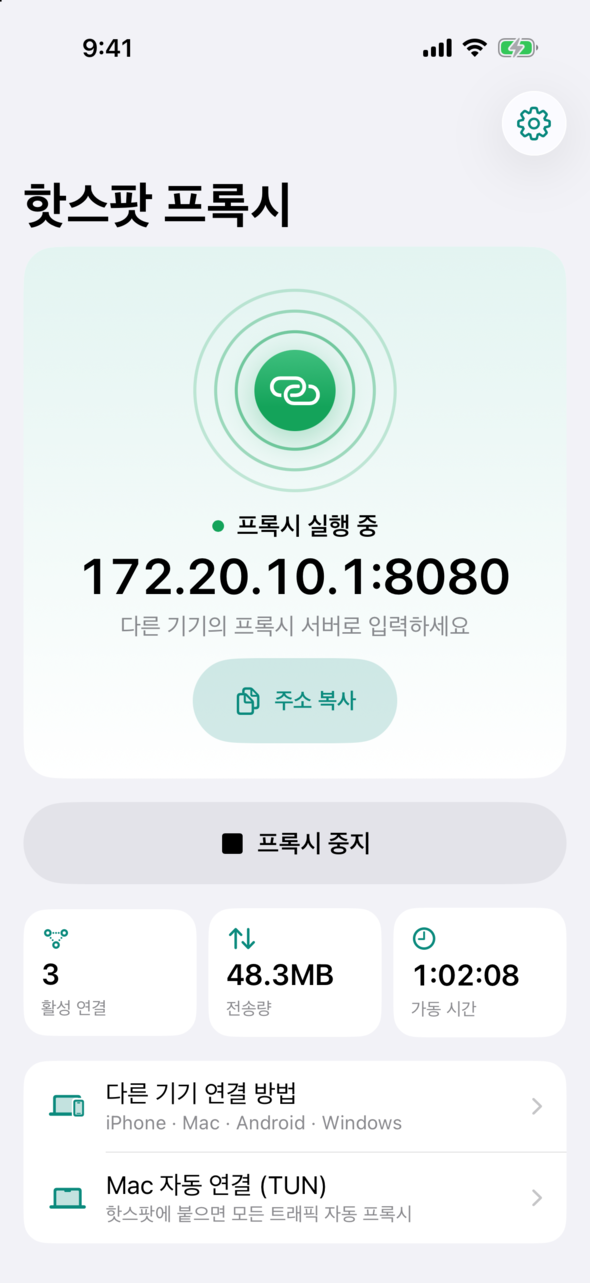
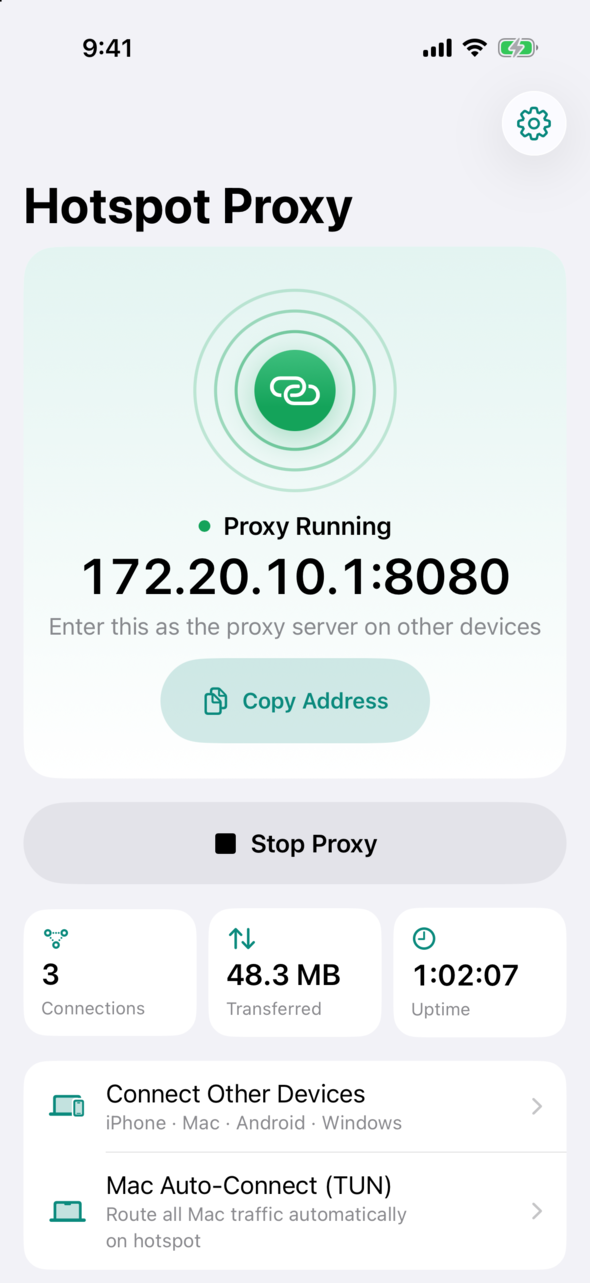
docs: English README and refreshed screenshots

diff --git a/README.md b/README.md
@@ -1,12 +1,12 @@
 <p align="center">
-  <img src="design/icon/preview.png" width="420" alt="핫스팟 프록시 앱 아이콘 (라이트 / 다크 / 틴티드)">
+  <img src="design/icon/preview.png" width="420" alt="Hotspot Proxy app icon in light, dark, and tinted variants">
 </p>
 
-<h1 align="center">핫스팟 프록시</h1>
+<h1 align="center">Hotspot Proxy</h1>
 
 <p align="center">
-  아이폰 개인용 핫스팟에 붙은 기기들이 <b>아이폰의 셀룰러 회선을 프록시로</b> 쓰게 해 주는 iOS 앱.<br>
-  HTTP · HTTPS(CONNECT) · SOCKS5(TCP + UDP ASSOCIATE)를 한 포트에서 받습니다.
+  An iOS app that lets devices on your iPhone's Personal Hotspot use <b>the iPhone's own cellular connection as a proxy</b>.<br>
+  HTTP, HTTPS (CONNECT), and SOCKS5 (TCP + UDP ASSOCIATE) on a single port.
 </p>
 
 <p align="center">
@@ -17,66 +17,70 @@
 
 ---
 
-## 왜 필요한가
+## Why
 
-일부 요금제나 망은 핫스팟 테더링 트래픽을 따로 구분해 제한합니다. 이 앱은 아이폰 안에서 프록시 서버를 띄웁니다. 핫스팟에 연결된 기기(맥, 아이패드, 노트북)가 이 프록시를 거치면, 트래픽이 아이폰 앱 자신의 트래픽으로 나가게 됩니다.
+Some carriers and plans classify tethered hotspot traffic separately and throttle or cap it. Hotspot Proxy runs a proxy server inside the iPhone. When devices on the hotspot (Mac, iPad, laptop) go through it, their traffic leaves as the iPhone app's own traffic.
 
-## 스크린샷
+## Screenshots
 
-| 메인 (실행 중) | 핫스팟 꺼짐 | 설정 | 온보딩 |
+| Main (running) | Hotspot off | Settings | Welcome |
 |---|---|---|---|
 | <img src="docs/screenshots/main-light.png" width="200"> | <img src="docs/screenshots/nohotspot-light.png" width="200"> | <img src="docs/screenshots/settings-light.png" width="200"> | <img src="docs/screenshots/onboarding-light.png" width="200"> |
 | <img src="docs/screenshots/main-dark.png" width="200"> | <img src="docs/screenshots/nohotspot-dark.png" width="200"> | <img src="docs/screenshots/settings-dark.png" width="200"> | <img src="docs/screenshots/onboarding-dark.png" width="200"> |
 
-<img src="docs/screenshots/home-icon.png" width="300" alt="홈 화면의 앱 아이콘">
+<img src="docs/screenshots/home-icon.png" width="300" alt="App icon on the Home Screen">
 
-### 잠금화면 / 홈 위젯
+### Lock Screen and Home Screen widgets
 
-<img src="docs/screenshots/widgets.png" width="420" alt="잠금화면 원형/사각/인라인 위젯과 홈 소형 위젯">
+<img src="docs/screenshots/widgets.png" width="420" alt="Lock Screen circular, rectangular, and inline widgets plus the small Home Screen widget">
 
-- **잠금화면**은 원형(연결 수와 상태), 사각형(상태, `IP:포트`, 연결·전송량), 인라인(한 줄 상태)을 지원합니다.
-- **홈 화면**은 소형 위젯(상태 칩, 접속 주소, 통계, 마지막 갱신 시각)을 지원합니다.
-- 위젯을 탭하면 앱이 열립니다. 앱은 상태가 바뀔 때만 위젯을 갱신하므로 배터리 소모가 거의 없습니다.
+- **Lock Screen** has three widgets:
+  - Circular shows the status and connection count.
+  - Rectangular shows the status, `IP:port`, connections, and data transferred.
+  - Inline shows a one-line status.
+- **Home Screen** has a small widget with a status chip, the proxy address, stats, and when it last updated.
+- Tapping a widget opens the app. The app reloads widgets only when the state changes, so they cost almost no battery.
 
-## 기능
+## Features
 
-- **상태 히어로** "signal ring"으로 현재 상태를 보여줍니다. 실행 중이면 초록, 핫스팟이 꺼지면 주황, 프록시가 꺼지면 회색, 오류면 빨강입니다.
-- **원탭 시작/중지**이며 햅틱 피드백을 줍니다.
-- **접속 주소 복사**: 다른 기기에 입력할 `172.20.10.1:8080`을 한 번에 복사합니다.
-- **실시간 통계**로 활성 연결, 전송량, 가동 시간을 보여줍니다. 화면이 보일 때만 갱신합니다.
-- **연결 안내**는 iPhone/iPad, macOS, Android, Windows별 프록시 설정 방법을 담고 있습니다.
-- **Mac 자동 TUN 안내**: `mac/` 스크립트로 시스템 전체 트래픽을 자동으로 프록시에 태웁니다.
-- **온보딩**은 핫스팟 켜기, 로컬 네트워크 권한, 백그라운드 유지 원리를 설명합니다.
-- 다크 모드, Dynamic Type(접근성 크기 포함), VoiceOver 라벨, 동작 줄이기를 지원합니다.
+- **Status hero.** A "signal ring" shows the current state: green while running, amber when the hotspot is off, grey when stopped, and red on error.
+- **One-tap start and stop**, with haptic feedback.
+- **Copy the address.** One tap copies `172.20.10.1:8080` to enter on other devices.
+- **Live stats** for active connections, data transferred, and uptime. Stats update only while the screen is visible.
+- **Connection guides** for iPhone/iPad, macOS, Android, and Windows.
+- **Mac auto-TUN guide.** The `mac/` scripts route all system traffic through the proxy automatically.
+- **Welcome flow** that covers turning on the hotspot, local network permission, and how background keep-alive works.
+- **Accessibility:** Dark Mode, Dynamic Type (including accessibility sizes), VoiceOver labels, and Reduce Motion.
 
-## 사용법
+## Usage
 
-1. 아이폰에서 **설정 › 개인용 핫스팟 › 다른 사람의 연결 허용**을 켭니다.
-2. 앱을 열고 **프록시 시작**을 누릅니다. 기본값으로 실행 시 자동 시작됩니다.
-3. 다른 기기를 핫스팟에 연결한 뒤 프록시를 수동으로 설정합니다.
-   - 서버는 `172.20.10.1`(앱 화면에 표시)이고 포트는 `8080`입니다.
-   - HTTP, HTTPS, SOCKS5 모두 같은 포트를 씁니다.
+1. On the iPhone, turn on **Settings › Personal Hotspot › Allow Others to Join**.
+2. Open the app and tap **Start Proxy**. By default it starts automatically on launch.
+3. Join the hotspot from another device and set its proxy manually:
+   - Server: `172.20.10.1` (shown in the app)
+   - Port: `8080`
+   - HTTP, HTTPS, and SOCKS5 all use the same port.
 
-### Mac: 시스템 전체 자동 프록시 (선택)
+### Mac: system-wide automatic proxy (optional)
 
-`mac/` 디렉터리에는 [sing-box](https://sing-box.sagernet.org) TUN을 이용해 **핫스팟에 붙었을 때만** 모든 트래픽을 아이폰 프록시로 보내는 launchd 구성이 들어 있습니다.
+The `mac/` directory has a launchd setup built on [sing-box](https://sing-box.sagernet.org) TUN. It sends all traffic through the iPhone proxy, but **only while the Mac is on the hotspot**.
 
 ```bash
 brew install sing-box
-sudo bash mac/install.sh        # 설치 (네트워크 변경 감지 → 자동 on/off)
-sudo bash mac/uninstall.sh      # 제거
-sudo bash mac/install-tailscale.sh   # (선택) Tailscale을 CLI 데몬으로 전환
+sudo bash mac/install.sh             # install (auto on/off on network changes)
+sudo bash mac/uninstall.sh           # remove
+sudo bash mac/install-tailscale.sh   # (optional) run Tailscale as a CLI daemon
 ```
 
-`hotspot-tun.sh`는 네트워크가 바뀔 때와 30초마다 실행됩니다. 아이폰 핫스팟(`172.20.10.x`)에 붙어 있고 `172.20.10.1:8080`이 응답하면 TUN과 DNS를 켜고, 그렇지 않으면 원래대로 되돌립니다.
+`hotspot-tun.sh` runs on every network change and every 30 seconds. When the Mac is on the iPhone hotspot (`172.20.10.x`) and `172.20.10.1:8080` responds, it turns the TUN and DNS on. Otherwise it restores the normal setup.
 
-## 백그라운드 동작과 배터리
+## Background behavior and battery
 
-iOS는 백그라운드 앱의 소켓을 오래 살려두지 않습니다. 그래서 이 앱은 **무음 오디오 루프**(8kHz, 30초 단위)로 프로세스를 유지합니다. 다른 앱 소리와 섞이며(`mixWithOthers`) 볼륨은 0입니다. UI 타이머는 화면이 보일 때만 돌고, UDP 흐름은 60초 동안 쉬면 정리됩니다.
+iOS doesn't keep a background app's sockets alive for long. To stay running, the app loops **silent audio** (8 kHz, in 30-second segments). The audio mixes with other apps (`mixWithOthers`) at zero volume. UI timers run only while the screen is visible, and idle UDP flows are cleaned up after 60 seconds.
 
-> 무음 오디오 백그라운드 모드는 App Store 심사 기준에 맞지 않을 수 있습니다. 이 앱은 개인 사이드로드나 개발자 서명 용도를 전제로 합니다.
+> The silent-audio background mode may not pass App Store review. This app is intended for personal sideloading or developer-signed builds.
 
-## 빌드
+## Build
 
 ```bash
 brew install xcodegen
@@ -84,32 +88,32 @@ xcodegen generate
 open HotspotProxy.xcodeproj
 ```
 
-- 타깃은 `HotspotProxy`(앱)와 `HotspotProxyWidget`(WidgetKit 확장)입니다.
-- 두 타깃은 App Group `group.com.indoyoon.hotspotproxy`로 상태를 공유합니다. 본인 팀으로 빌드할 때는 `project.yml`의 `DEVELOPMENT_TEAM`, 번들 ID, App Group을 바꾸세요.
-- 앱 아이콘 원본은 `design/icon/*.svg`이고, 디자인 시스템은 [`DESIGN.md`](DESIGN.md)에 있습니다.
+- The project has two targets: `HotspotProxy` (the app) and `HotspotProxyWidget` (the WidgetKit extension).
+- The targets share state through the App Group `group.com.indoyoon.hotspotproxy`. To build under your own team, change `DEVELOPMENT_TEAM`, the bundle IDs, and the App Group in `project.yml`.
+- Icon sources are in `design/icon/*.svg`. The design system is in [`DESIGN.md`](DESIGN.md).
 
-## 구조
+## Layout
 
 ```
 Sources/
-  App.swift              앱 진입점, 딥링크 처리
-  Model/ProxyModel.swift 프록시 상태, 위젯 스냅샷 게시
-  Views/                 메인, 설정, 온보딩, 연결 안내, Mac 안내
-  Design/                토큰, 공용 컴포넌트 (SignalRing, StatusHero …)
-  ProxyServer.swift      HTTP/CONNECT + SOCKS5 서버 (Network.framework)
-  UdpRelay.swift         SOCKS5 UDP ASSOCIATE 릴레이
-  KeepAlive.swift        무음 오디오 백그라운드 유지
-Widget/                  잠금화면 / 홈 위젯
-Shared/                  앱 ↔ 위젯 공유 스냅샷, 딥링크, 색상 에셋
-mac/                     macOS sing-box TUN 자동화 스크립트
+  App.swift              App entry, deep-link handling
+  Model/ProxyModel.swift Proxy state, widget snapshot publishing
+  Views/                 Main, settings, welcome, connection guide, Mac guide
+  Design/                Tokens and shared components (SignalRing, StatusHero, ...)
+  ProxyServer.swift      HTTP/CONNECT + SOCKS5 server (Network.framework)
+  UdpRelay.swift         SOCKS5 UDP ASSOCIATE relay
+  KeepAlive.swift        Silent-audio background keep-alive
+Widget/                  Lock Screen and Home Screen widgets
+Shared/                  App/widget shared snapshot, deep links, color assets
+mac/                     macOS sing-box TUN automation scripts
 ```
 
-## 딥링크
+## Deep links
 
-| URL | 동작 |
+| URL | Action |
 |---|---|
-| `hotspotproxy://open` | 앱 열기 |
-| `hotspotproxy://start` / `stop` / `toggle` | 프록시 제어 |
-| `hotspotproxy://copy` | 접속 주소 복사 |
+| `hotspotproxy://open` | Open the app |
+| `hotspotproxy://start` / `stop` / `toggle` | Control the proxy |
+| `hotspotproxy://copy` | Copy the proxy address |
 
-단축어(Shortcuts) 앱의 "URL 열기"로 자동화할 수 있습니다.
+Use the "Open URLs" action in Shortcuts to automate them.
